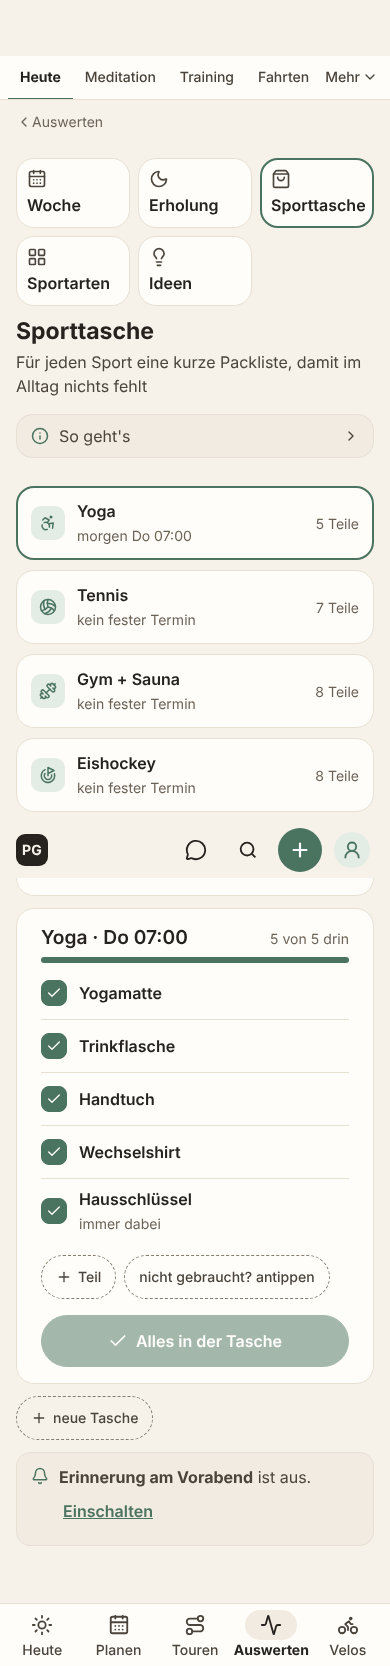
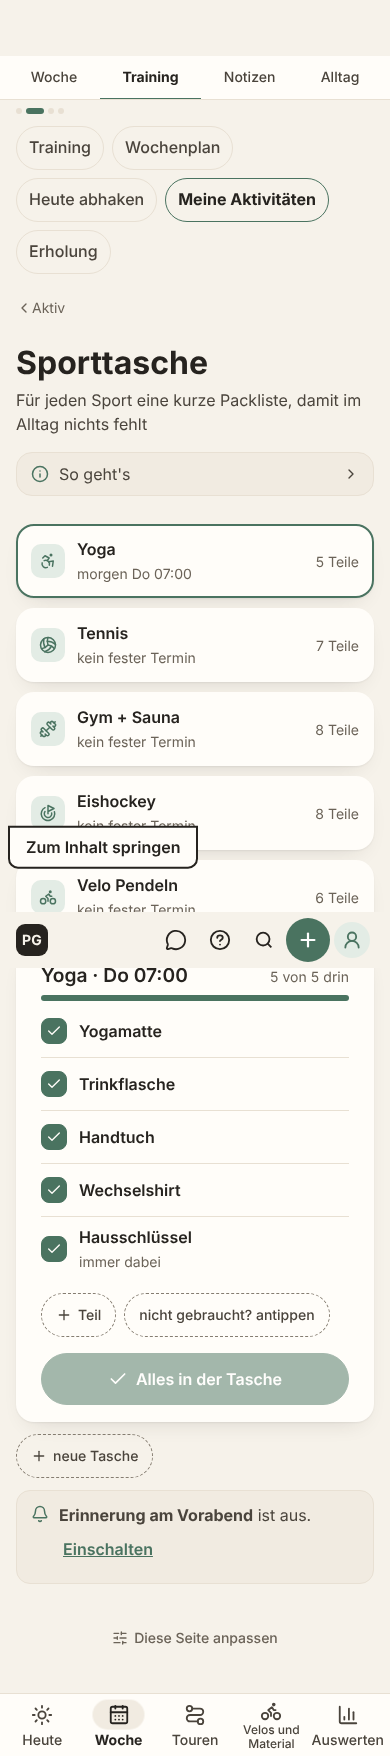
Sporttasche-Test: «Meine Sportarten» ist seit V4a ein Chip unter Training

diff --git a/tests/e2e/sporttasche.spec.js b/tests/e2e/sporttasche.spec.js
@@ -4,7 +4,6 @@
 // switched off, on a phone and a computer, in German. No sideways scroll, no page errors. Fictional data.
 import { test, expect } from '@playwright/test';
 import DE from '../../src/lib/i18n/de/index.js';
-import { TABS } from './placetab.js';
 
 const T = (en, vars) => {
   const s = DE[en] ?? en.replace(/\|[a-z]+$/, '');
@@ -69,7 +68,7 @@ test('Sporttasche: the reminder on Heute, pack the bag, often forgotten, switch 
   await expect(rem).toContainText(T('Tomorrow {name} {time}: pack the bag', { name: 'Yoga', time: '07:00' }));
   await rem.click();
   await expect(page).toHaveURL(/#\/flow\/bags\?b=bag-yoga$/);
-  await expect(page.locator(TABS).getByRole('link', { name: T('My sports|tab'), exact: true })).toHaveAttribute('aria-current', 'page'); // «Aktiv neu»: the sport bag belongs to «Meine Sportarten»
+  await expect(page.locator('nav.psubs a[data-sub="sports"]')).toHaveAttribute('aria-current', 'page'); // «Aktiv neu»: the sport bag belongs to «Meine Sportarten» (since V4a a chip under Training)
   await expect(main.getByRole('heading', { level: 1, name: T('Sport bag') })).toBeVisible(); // «Ein Kopf für Aktiv»: Titel zuerst, keine Kachelreihe darüber
   await expect(main.locator('[data-more]')).toHaveCount(0);
   const bag = main.locator('[data-open-bag="bag-yoga"]');
